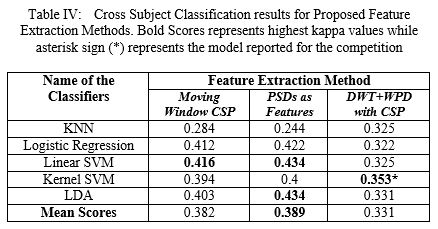
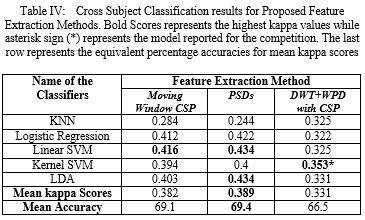
update readme and images

diff --git a/README.md b/README.md
@@ -10,14 +10,22 @@ In this competition, we are provided an EEG Dataset of 10 hemiparetic stroke pat
  - [Competition Website Link](https://sites.google.com/view/bci-comp-wcci/?fbclid=IwAR37WLQ_xNd5qsZvktZCT8XJerHhmVb_bU5HDu69CnO85DE3iF0fs57vQ6M)
 
 ## How to Run it?
-The code is primarily written in Python in the form of Jupyter Notebook. In order to run, it you should have installed Python on your computer. The required packages are listed in requirements.txt file.  
+The code is primarily written in Python using Jupyter Notebooks. In order to run, it you need to have Python and Jupyter Notebook on your computer. The required packages are listed in requirements.txt file.  
+
+If you are new to Python then I would highly suggest you to install [Anaconda](https://www.anaconda.com/) which would automatically manage and update different libraries to avoid conflicts. Moreover, it also comes with Jupyter Notebook pre-installed and a lot of relevant python packages like Numpy, Scipy, Matplotlib etc. [Anaconda Installation Instructions](https://docs.anaconda.com/anaconda/install/)
+
 You can view the code by opening the files at Github. Sometimes, Github have some issues in previewing Jupyter Notebooks so you may try again to 'Reload' or Just copy paste the url of the notebook and paste it in  [nbviewer](https://nbviewer.jupyter.org/)
 
 ## Abstract of the Final Report
-Brain Computer Interface (BCI) promises a better future for people with neurological and physical disabilities. People with motor disability have been looking towards the developments in BCI research with the hope that one day they might help them control their limbs with their thoughts. However, the successful classification of the brain thoughts into correct intended movement is still a challenge. A lot of work has been done in this regard and still people are trying hard to push the boundaries. This work is intended for such a cause i.e. Clinical BCI Challenge-WCCI 2020 that has provided a EEG dataset of 10 hemiparetic stroke patients having hand functional disabilities who are trying to imagine left or right hand grasp movement. The aim is to successfully classify these signals as one of the intended movements and this could help in the development of robot assisted therapies or as an interface for assistive devices. In this study, we have focused on three different feature extraction methods that combine time-frequency analysis and common spatial pattern techniques and compared their performance based on the kappa scores. These methods include moving window CSP based feature extractor, PSD based feature extractor and Wavelet Transform (DW+/WPD) with CSP based feature extractors to classify both within subject and cross subject hand movements. The results have shown that for within subject classification, wavelet transform with CSP based method is the most accurate one with mean kappa score of 0.668 while for cross subject classification we found PSDs based method to be of highest kappa value 0.389. Moreover, to report results for the competition, we have also used additional information of balanced trials to our advantage and we selected the model that has highest kappa score without a high bias toward any of the classes.
+Brain Computer Interface (BCI) promises a better future for people with neurological and physical disabilities. People with motor disabilities have long been looking towards the developments in BCI research with the hope that one day they might be able to control their limbs with their thoughts. However, the successful classification of the brain thoughts into correct intended movement is still a challenge and a lot of research has been done in this regard. This work is intended for one such cause i.e. Clinical BCI Challenge-WCCI 2020 that has provided an EEG dataset of 10 hemiparetic stroke patients having hand functional disabilities who were trying to imagine left or right hand grasp movement. The aim is to successfully classify these signals as one of the intended movements and this could help in the development of robot assisted therapies or as an interface for assistive devices. In this study, we have focused on three different feature extraction methods based on time-frequency analysis and common spatial pattern (CSP) techniques and compared the within subject and cross subject performance based on the kappa scores. These methods include moving window CSP based feature extractor, PSD based feature extractor, and Wavelet Transform (DWT+WPD) with CSP based feature extractor. We empirically found that, for within subject classification, wavelet transform with CSP based method is the most accurate one with a mean kappa score of 0.668 (82.8% accuracy) while for cross subject classification, PSD based method gave highest kappa value of 0.389 (69.4% accuracy). Moreover, to report results for the competition, we have also used additional information of balanced trials to our advantage and selected the model that has the highest kappa score without a high bias toward any of the classes. 
+
+
+
+## Single Trial Timing Details
+<img src="Images/timing_diagram.JPG">
 
 ## Block Diagram
-<img src="Images/BlockDiagram.JPG">
+<img src="Images/BlockDiagramBlue.JPG">
 
 ## Results
 
